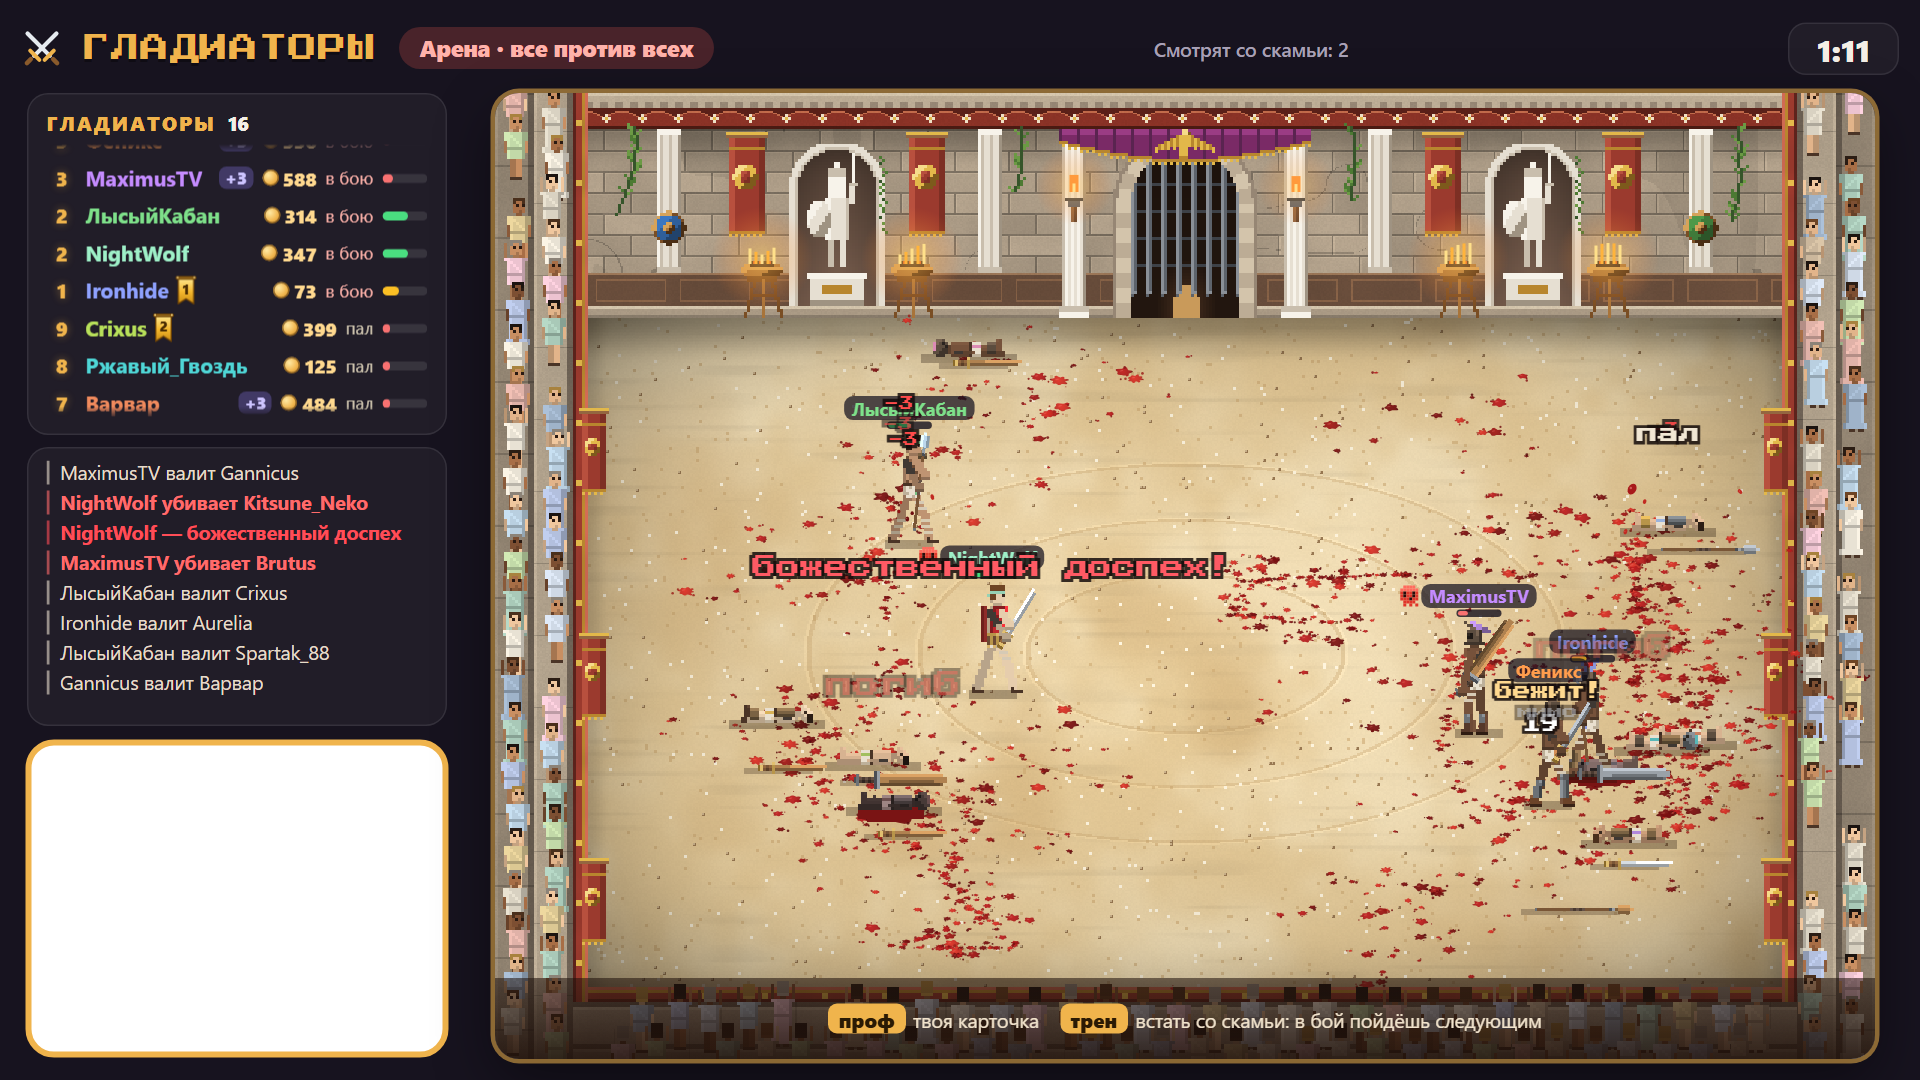
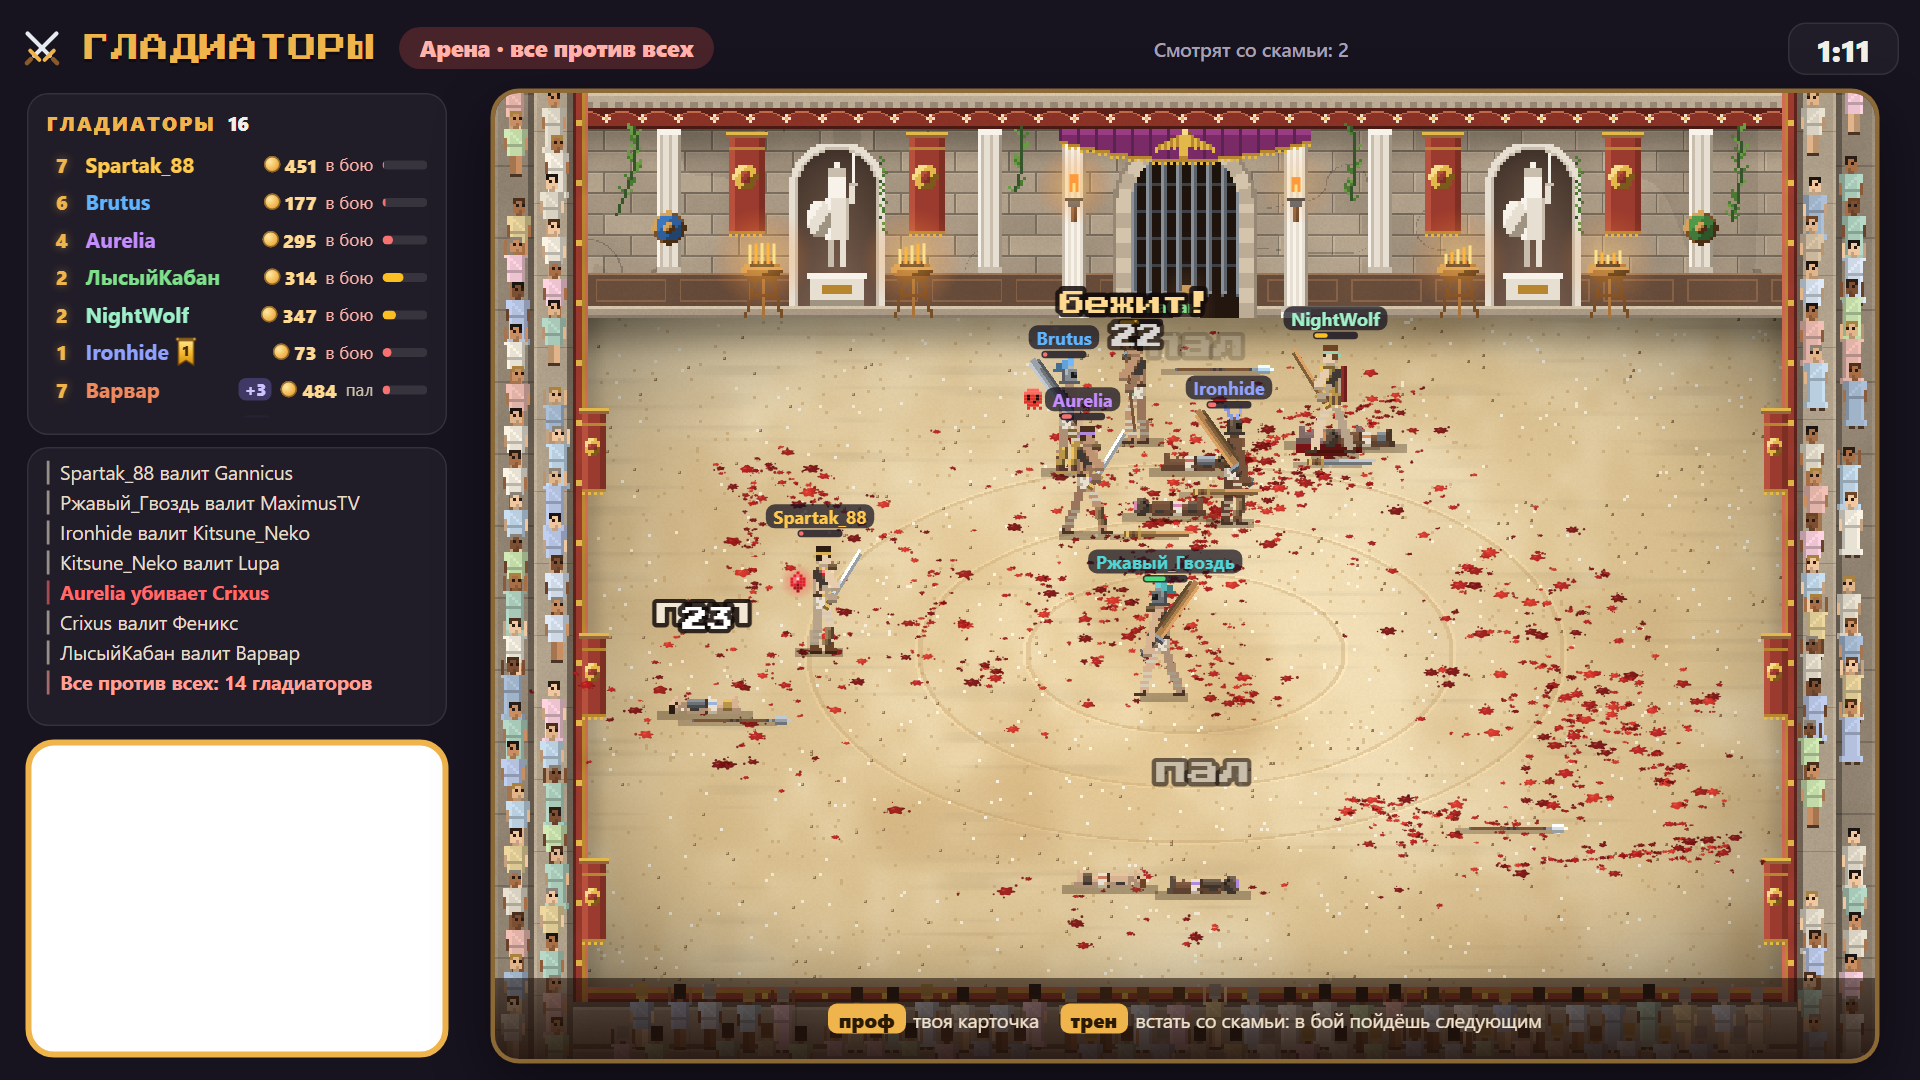
Гладиаторы: ровная кладка стен лудуса с поломками, крупные надписи на арене, сеть 3 секунды и перезарядка 10

diff --git a/site/js/ludus.js b/site/js/ludus.js
@@ -519,6 +519,10 @@ function sideAt(x, y) {
   return { u: t * DEPTH, h: (sideBase(x) - y) / (1 + SIDE.grow * t), t };
 }
 
+// поломки на боковых стенах: выбитые камни [камень, ряд] и трещины [глубина, высота начала, длина вниз]
+const WALL_HOLES = { right: [[0, 15], [1, 15], [6, 9], [5, 18], [6, 1]], left: [[2, 5], [3, 5], [4, 13], [1, 18], [3, 1]] };
+const WALL_CRACKS = { right: [[20, 205, 60], [230, 120, 70]], left: [[90, 230, 80], [180, 110, 60], [40, 70, 50]] };
+
 function paintSideWall(ctx, right) {
   const u0 = GATE.from * DEPTH, u1 = GATE.to * DEPTH, r = (u1 - u0) / 2, cu = u0 + r, spring = GATE.height;
   const jamb = 16;
@@ -589,17 +593,47 @@ function paintSideWall(ctx, right) {
           // косяки ворот — светлые камни
           c = tone(rgb(Math.floor(h / 10) % 2 ? '#ddcdb0' : '#c4b294'), light * ((Math.floor(h) % 10) < 1.4 ? 0.8 : 1));
         } else {
-          // кладка: ряды по 12, камни по 40 вразбежку, у каждого свой тон; у самой колоннады — светлый угол
+          // кладка: ряды по 12, камни по 40 вразбежку, у каждого свой тон; у самой колоннады — светлый угол.
+          // Швы — там, где камень меняется по сравнению с соседним пикселем слева или сверху: так каждый шов ровно
+          // в один пиксель и не пропадает, как бы ни сжимал ракурс
           const row = Math.floor(h / 12), off = row % 2 ? 20 : 0, bu = Math.floor((u + off) / 40);
-          const joint = (h % 12) < 1.6 || ((u + off) % 40) < 3.2;
+          const up = sideAt(x + 1, y - 1), left = sideAt(x - 1, y + 1), up2 = sideAt(x + 1, y - 3);
+          const joint = Math.floor(up.h / 12) !== row || x > SIDE.x && Math.floor((left.u + off) / 40) !== bu;
           let k = light * (0.88 + 0.16 * hash(bu, row, 191) + 0.05 * noise(x, y, 14, 192));
-          if (joint) k *= 0.72;
+          if (joint) k *= 0.7;
+          else if (Math.floor(up2.h / 12) !== row) k *= 1.07;
           k *= 0.7 + 0.3 * smooth(262, 200, h);
           c = tone(rgb(u < 7 ? '#d6c4a4' : '#b5a284'), k);
+          // поломки: выбитые камни — тёмная ниша с тенью сверху и обломками снизу; трещины
+          const hole = (right ? WALL_HOLES.right : WALL_HOLES.left).some(([hb, hr]) => hb === bu && hr === row);
+          if (hole && !joint) {
+            const inRow = h - row * 12;
+            c = tone(rgb('#5e5246'), light * (inRow > 9 ? 0.55 : inRow < 3 ? 0.95 : 0.75) * (0.9 + 0.2 * hash(x, y, 193)));
+          }
+          for (const [cu, ch, len] of right ? WALL_CRACKS.right : WALL_CRACKS.left) {
+            const dh = ch - h;
+            if (dh < 0 || dh > len) continue;
+            const along = cu + dh * 0.5 + Math.sin(dh * 0.45) * 5 + (hash(Math.floor(dh / 4), cu, 194) - 0.5) * 4;
+            if (Math.abs(u - along) < 3) c = tone(rgb('#4e443a'), light * 0.9);
+          }
         }
       }
       ctx.fillStyle = 'rgb(' + c.map((v) => Math.round(v)).join(',') + ')';
       ctx.fillRect(sx(x), y, 2, 2);
+    }
+  }
+  // под нижними выбитыми камнями на песке лежат обломки
+  for (const [bu, row] of right ? WALL_HOLES.right : WALL_HOLES.left) {
+    if (row > 2) continue;
+    const u = (bu * 40 + 20 - (row % 2 ? 20 : 0)) / DEPTH, bx = Math.round(SIDE.x + u * (FIELD_W - SIDE.x));
+    const by = Math.round(sideBase(bx) / 2) * 2 + 4;
+    for (let i = 0; i < 9; i++) {
+      const rx = bx - 12 + Math.round(hash(i, bu, 195) * 12) * 2, ry = by + Math.round(hash(i, row, 196) * 4) * 2;
+      const big = hash(i, 7, 197) < 0.4;
+      ctx.fillStyle = hash(i, 8, 198) < 0.5 ? '#8a7c6a' : '#a69683';
+      ctx.fillRect(sx(rx), ry, big ? 4 : 2, big ? 4 : 2);
+      ctx.fillStyle = '#5e5246';
+      ctx.fillRect(sx(rx), ry + (big ? 4 : 2), big ? 4 : 2, 2);
     }
   }
   // угол стены у колоннады — тонкая тёмная грань

diff --git a/site/js/balance.js b/site/js/balance.js
@@ -95,7 +95,7 @@ export const SHIELD = { block: 0.5, breaks: 0.2, critBreaks: 2 };
 // сеть многоразовая: после броска reload секунд на то, чтобы её подобрать, и шанс tear, что она порвётся.
 // Бросают с range (шанс chance в секунду) — пока сближаются, почти всегда успевают; а вплотную тоже, но реже (close).
 // Попал — держит stun секунд, а бросивший добивает эту цель и не убегает, пока она на ногах
-export const NET = { stun: 4, range: [50, 170], chance: 3.75, close: 0.75, speed: 320, focus: 6, max: 1, reload: 14, tear: 0.15 };
+export const NET = { stun: 3, range: [50, 170], chance: 3.75, close: 0.75, speed: 320, focus: 6, max: 1, reload: 10, tear: 0.15 };
 // cool — сколько секунд после подбора копьё нельзя метнуть снова; копьё метают в израненного беглеца (low), а ещё —
 // в цель дальше far: каждую секунду с шансом farChance. Брошенное копьё критует в critMult раз чаще, но промахивается
 // на miss чаще (прибавка к увороту цели)

diff --git a/site/js/view.js b/site/js/view.js
@@ -951,8 +951,10 @@ export class View {
         size = 20;
         color = '#ff5a64';
       }
-      ctx.font = Math.round(size * 0.8) + 'px "Press Start 2P", ' + FONT;
-      ctx.lineWidth = 4;
+      // всплывающие надписи — крупно и с толстым контуром, чтобы читались на трансляции
+      ctx.font = Math.round(size * 1.15) + 'px "Press Start 2P", ' + FONT;
+      ctx.lineJoin = 'round';
+      ctx.lineWidth = 6;
       ctx.strokeStyle = 'rgba(20,12,10,.85)';
       ctx.strokeText(f.text, x, y);
       ctx.fillStyle = color;

diff --git a/README.md b/README.md
@@ -211,8 +211,8 @@ Twitch и нажми «Начать». Сразу откроется лудус.
   обычного) и каждым попаданием пускает кровь с шансом 12%.
 - **Щит** (без редкости, во второй руке) — отбивает половину ударов (50%) и раскалывается при этом с шансом 20%, а
   если отбит удар, который был бы критом, — 40%.
-- **Сеть** (без редкости, во второй руке) — её бросают во врага: он запутан на 4 секунды — не бьёт и не может убежать,
-  — а бросивший добивает именно его и не убегает, пока тот на ногах. Через 14 секунд сеть можно бросить снова, но
+- **Сеть** (без редкости, во второй руке) — её бросают во врага: он запутан на 3 секунды — не бьёт и не может убежать,
+  — а бросивший добивает именно его и не убегает, пока тот на ногах. Через 10 секунд сеть можно бросить снова, но
   после каждого броска она с шансом 15% рвётся.
 - **Мешок с песком** (без редкости, во второй руке, одноразовый) — его бросают сразу, как только у самого осталось
   меньше половины здоровья: мешок лопается песочной вспышкой, и все враги бросившего в
